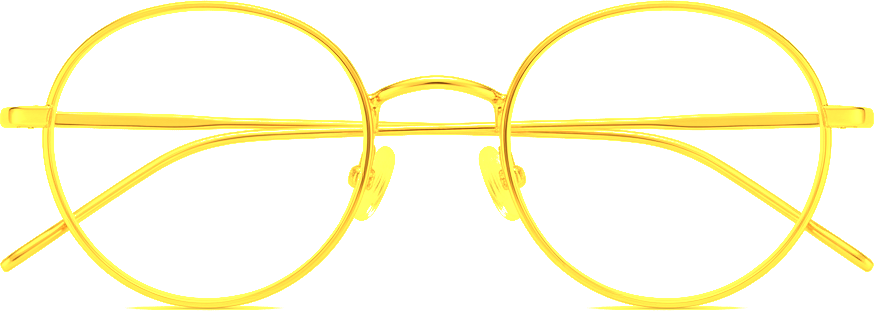
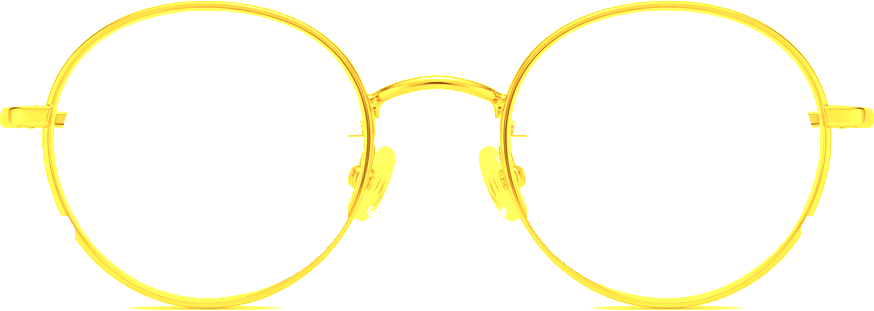
Fix 360 viewer lens artifacts and refine temple arm alignment

diff --git a/src/components/ThreeSixtyModal.jsx b/src/components/ThreeSixtyModal.jsx
@@ -380,35 +380,35 @@ function buildAuthenticShowroom3DModel(group, product, activeColor, texture, fra
   const hingeX = (frameWidth / 2) * hingeFractionX;
   const hingeY = frameHeight * hingeFractionY;
 
-  const stemRadius = isMetal ? 0.02 : 0.038;
-  const hookRadius = isMetal ? 0.032 : 0.042;
+  const stemRadius = isMetal ? 0.016 : 0.024;
+  const hookRadius = isMetal ? 0.022 : 0.029;
 
   for (let side of [-1, 1]) {
     const x = side * hingeX;
 
     // Metallic Hinge Barrel
-    const hingeGeom = new THREE.CylinderGeometry(0.022, 0.022, 0.06, 12);
+    const hingeGeom = new THREE.CylinderGeometry(0.018, 0.018, 0.05, 12);
     const hingeMesh = new THREE.Mesh(hingeGeom, templeMat);
     hingeMesh.position.set(x, hingeY, -0.015);
     group.add(hingeMesh);
 
     // Part A: Front Temple Stem (traveling straight back along -Z to Z = -1.6)
-    // Tucked naturally behind the frame end-pieces without splaying awkwardly
+    // Naturally tapers inward toward the ears matching anatomical head curvature
     const stemCurve = new THREE.CatmullRomCurve3([
       new THREE.Vector3(x, hingeY, -0.02),
-      new THREE.Vector3(x * 0.99, hingeY, -0.8),
-      new THREE.Vector3(x * 0.96, hingeY, -1.6)
+      new THREE.Vector3(x * 0.94, hingeY, -0.8),
+      new THREE.Vector3(x * 0.88, hingeY - 0.01, -1.6)
     ]);
     const stemGeom = new THREE.TubeGeometry(stemCurve, 24, stemRadius, 10, false);
     const stemMesh = new THREE.Mesh(stemGeom, templeMat);
     group.add(stemMesh);
 
     // Part B: Ergonomic Ear Hook with Acetate Sleeve Tip (curving down to Z = -2.45)
-    // Replicates real showroom eyewear geometry
+    // Tucks neatly behind the ear, visible cleanly through transparent lenses
     const hookCurve = new THREE.CatmullRomCurve3([
-      new THREE.Vector3(x * 0.96, hingeY, -1.6),
-      new THREE.Vector3(x * 0.94, hingeY - 0.06, -2.05),
-      new THREE.Vector3(x * 0.91, hingeY - 0.36, -2.48)
+      new THREE.Vector3(x * 0.88, hingeY - 0.01, -1.6),
+      new THREE.Vector3(x * 0.85, hingeY - 0.08, -2.05),
+      new THREE.Vector3(x * 0.82, hingeY - 0.38, -2.45)
     ]);
     const hookGeom = new THREE.TubeGeometry(hookCurve, 20, hookRadius, 10, false);
     const hookMesh = new THREE.Mesh(hookGeom, earTipMat);
